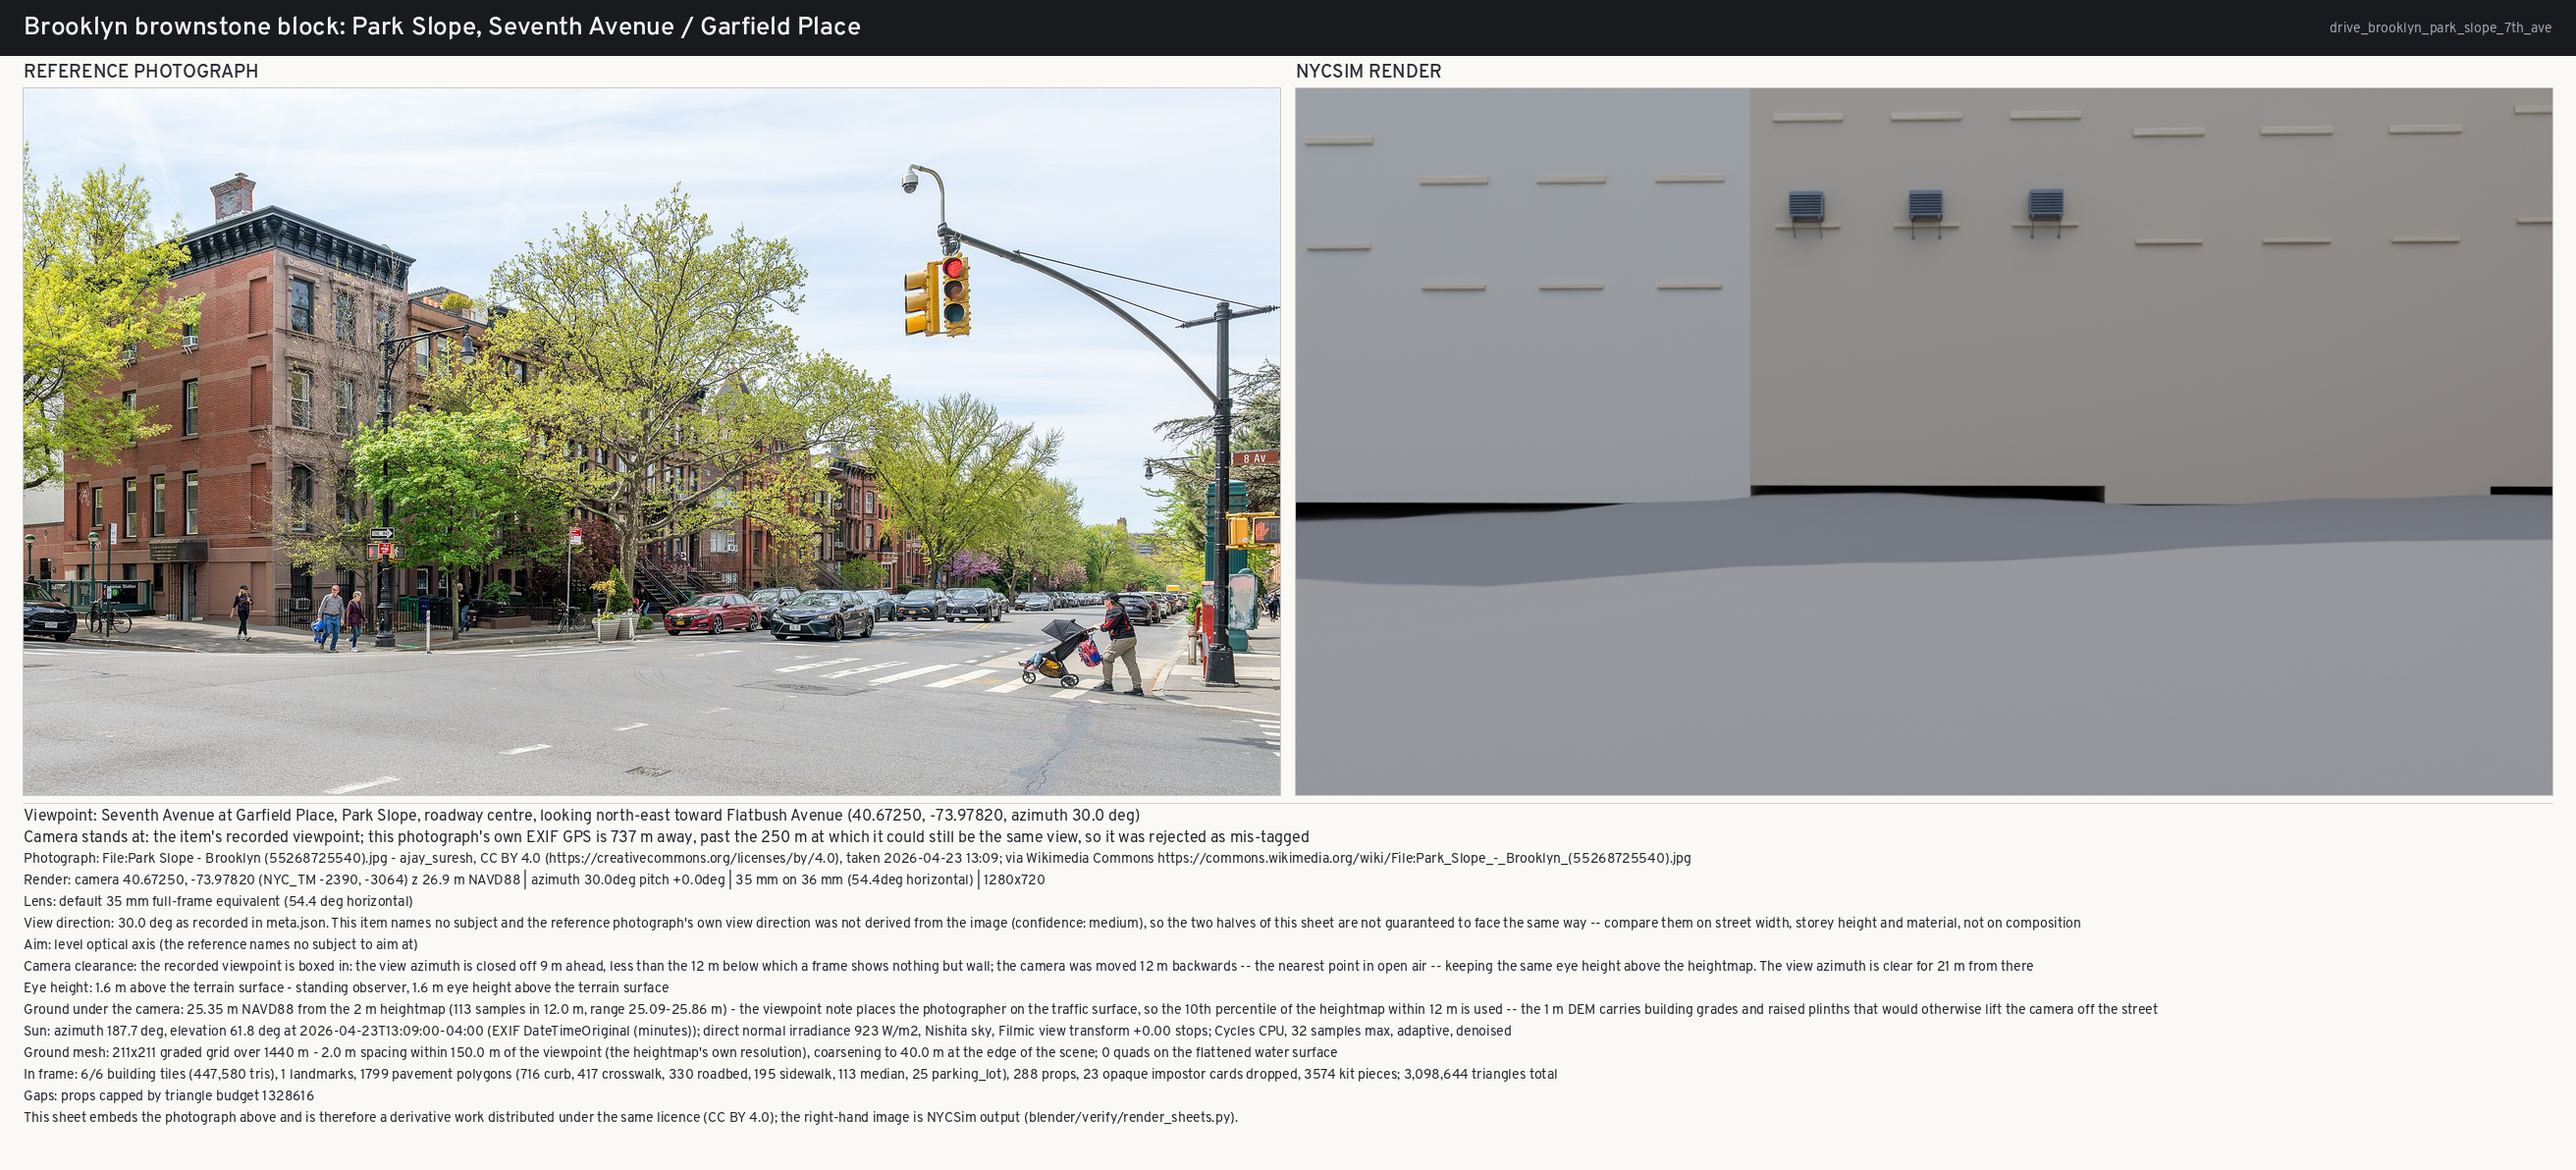
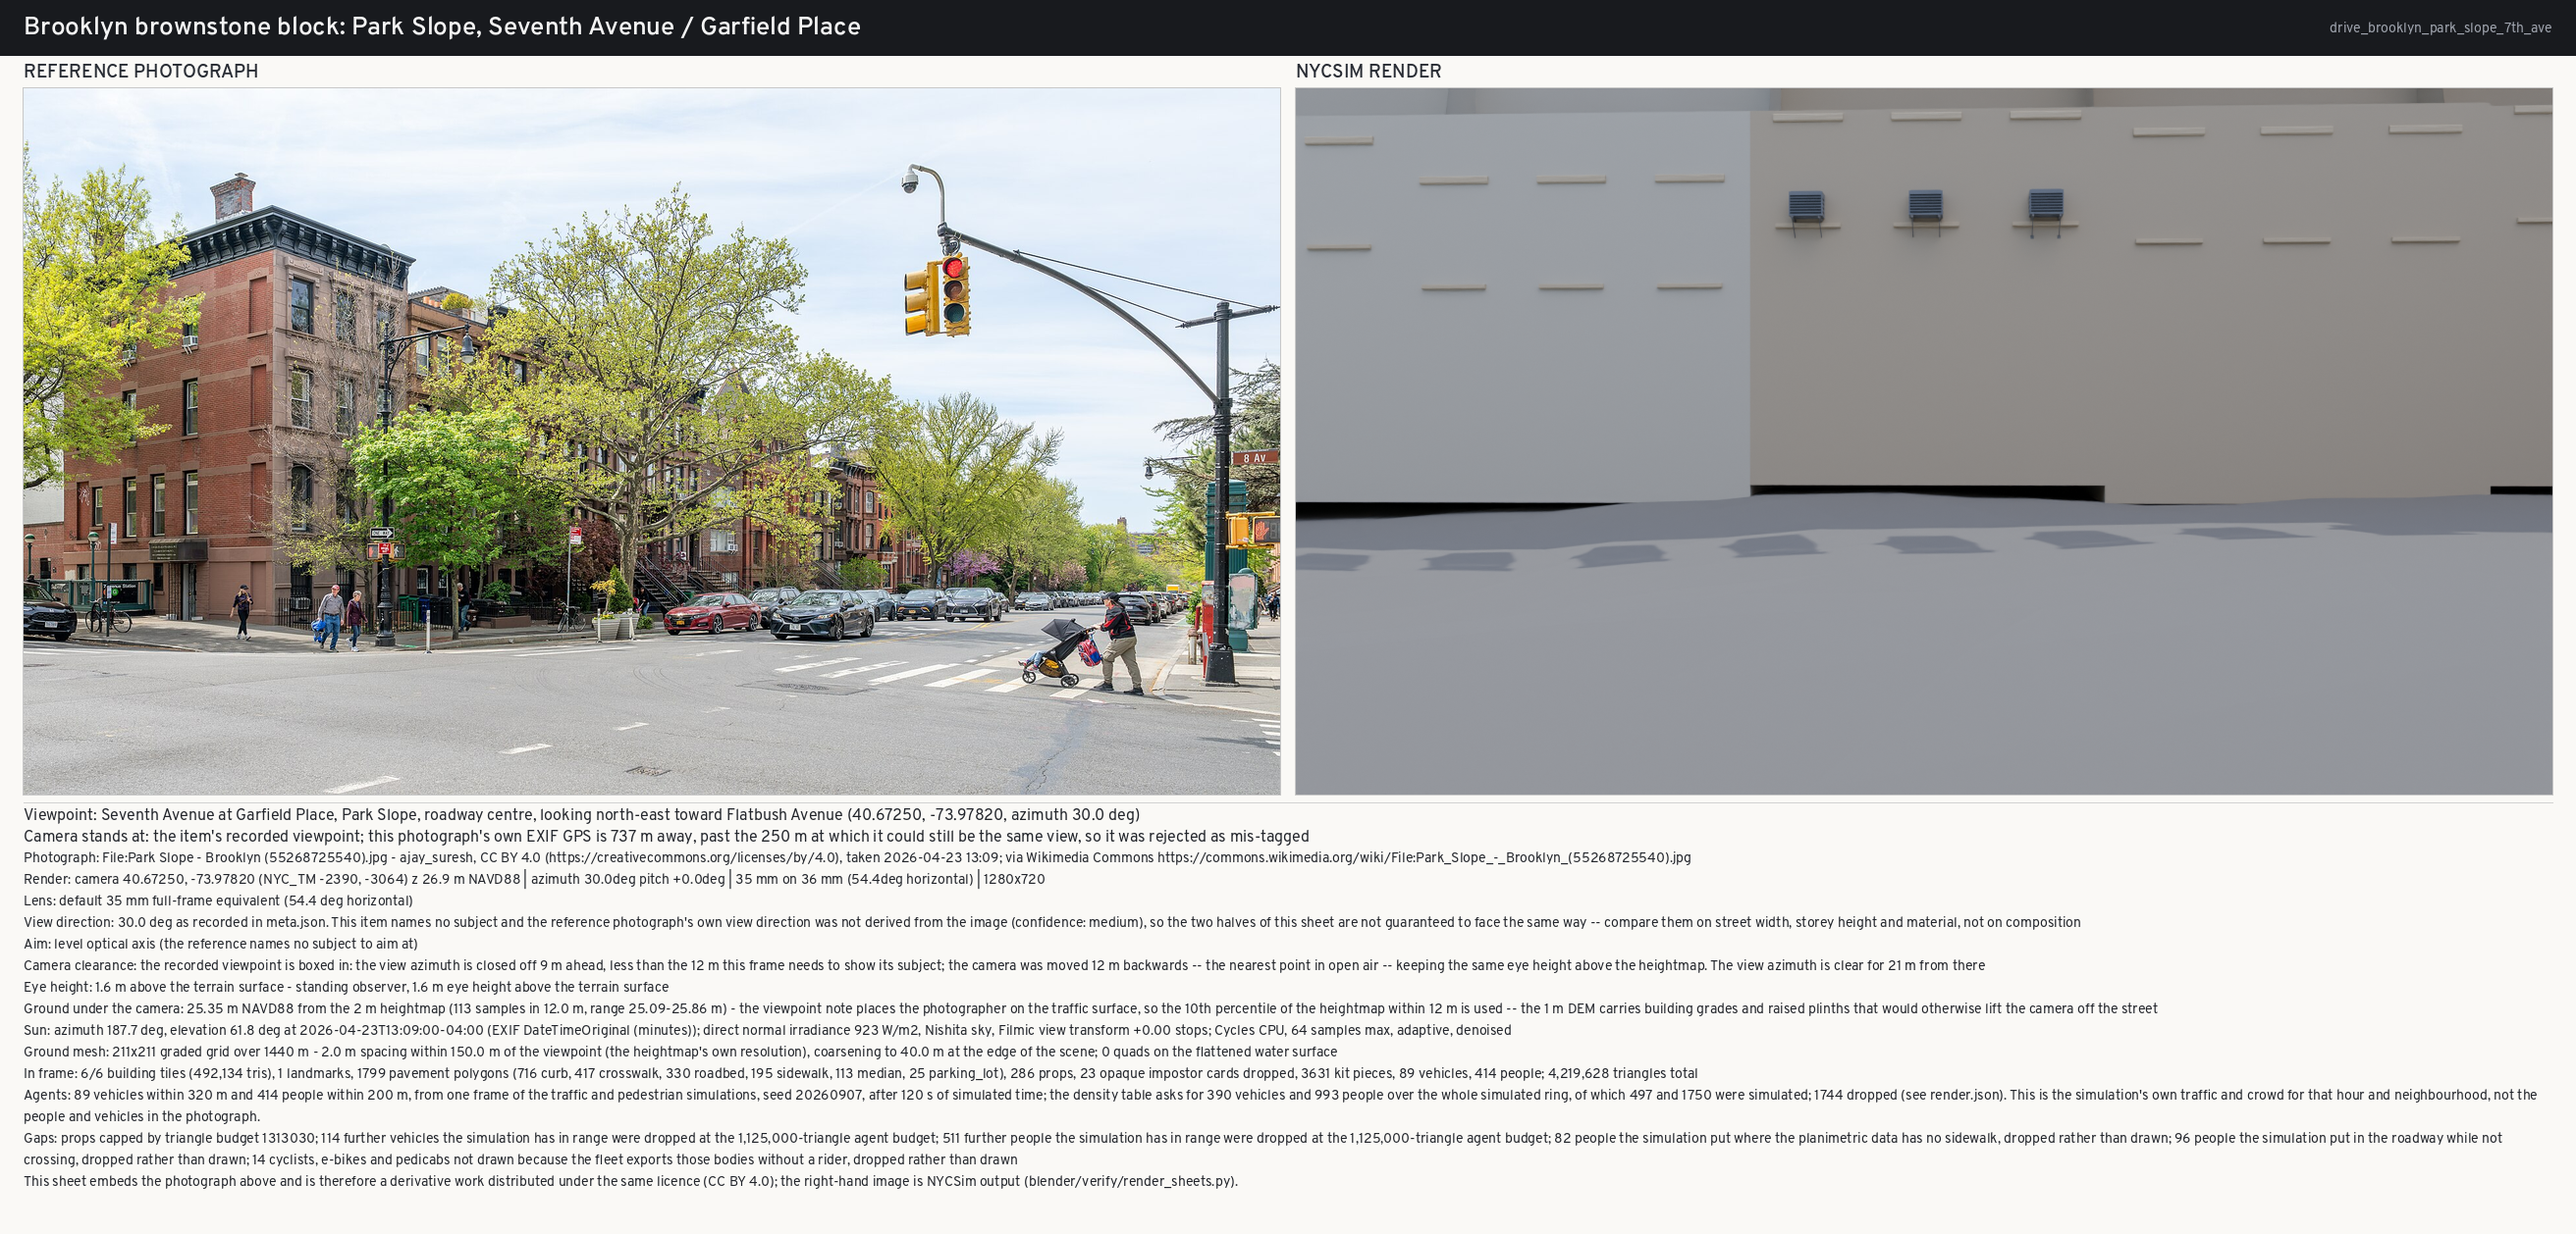
verify: Park Slope re-rendered, and buildings do not float - measured, not assumed
The dark line where the wall meets the ground in this frame looked like a
floating building shell, which would have been a serious 1:1 defect on every
sloped street in the city.  I measured it instead of writing it up.

1,871 buildings sampled across 40 tiles, each footprint's ground_z against the
terrain heightmap beneath its centroid:

  median  +0.00 m     p05 -0.04     p95 +0.02
  more than 0.5 m above the terrain  0.3 %
  more than 0.5 m below              0.1 %

Buildings sit on the ground.  The line is a contact shadow.  Recorded in the
assessment as a negative result rather than dropped, because the next person to
see that line should not have to measure it again.

The frame itself is the weakest in the drive-through set and the assessment now
says why: the nearest building is 28 m dead ahead and every other building
within 60 m is behind the camera, so the picture is two blank wall planes with
sill bars and three window air conditioners over a featureless ground.  It shows
the same gap as the Bed-Stuy sheet - surrounds and fittings placed on a wall
with no openings between them - and shows it starker, because there is nothing
else in the frame.

Claude-Session: https://claude.ai/code/session_012rCzdfEp56Z5bDvSJLVsiQ

diff --git a/docs/verification/comparison/drive_brooklyn_park_slope_7th_ave/assessment.md b/docs/verification/comparison/drive_brooklyn_park_slope_7th_ave/assessment.md
@@ -14,6 +14,34 @@
 
 **Verdict — the camera was rescued from a nine-metre wall and put in front of a twenty-metre one: the item's own azimuth points across Seventh Avenue at the opposite block face, so the frame is two party walls and a strip of sidewalk, and the brownstone street the item exists to test is off to the left**
 
+## Re-rendered 2026-09-07, and a defect I went looking for and did not find
+
+This is the weakest frame in the drive-through set. The camera stands at a 1.6 m eye on a 54.4° lens
+with the nearest building 28 m dead ahead and every other building within 60 m *behind* it (116-175°
+off the view axis), so the frame is two large blank wall planes carrying sill bars and three
+window-unit air conditioners, over a featureless ground plane. Nothing in it can be compared with a
+photograph of a Park Slope shopping street except the wall colour.
+
+The dark line where the wall meets the ground looked like a floating building, so I measured it
+rather than writing it up. **It is not one.** Sampling 1,871 buildings across 40 tiles and comparing
+each footprint's `ground_z` against the terrain heightmap beneath its centroid:
+
+| | value |
+|---|---|
+| median `ground_z` − terrain | **+0.00 m** |
+| p05 / p95 | −0.04 m / +0.02 m |
+| more than 0.5 m above the terrain | 0.3 % |
+| more than 0.5 m below | 0.1 % |
+
+Buildings sit on the ground. The line is a contact shadow, not a gap, and the city-wide check that
+would have caught a systematic problem says there is not one. Recorded because a negative result from
+a check worth running is worth keeping — the next person to see that line should not have to measure
+it again.
+
+What the frame *does* show is the same gap as `drive_brooklyn_bed_stuy_stuyvesant_ave`: sills and
+HVAC units placed on a wall with no window openings between them. Here it is starker, because there
+is nothing else in the frame.
+
 ## What matches
 
 * The boxed-in test fired and is stated: the recorded eye point had the view closed off 9 m ahead, and the camera was moved 12 m backwards to a point with 21 m of clear view.
